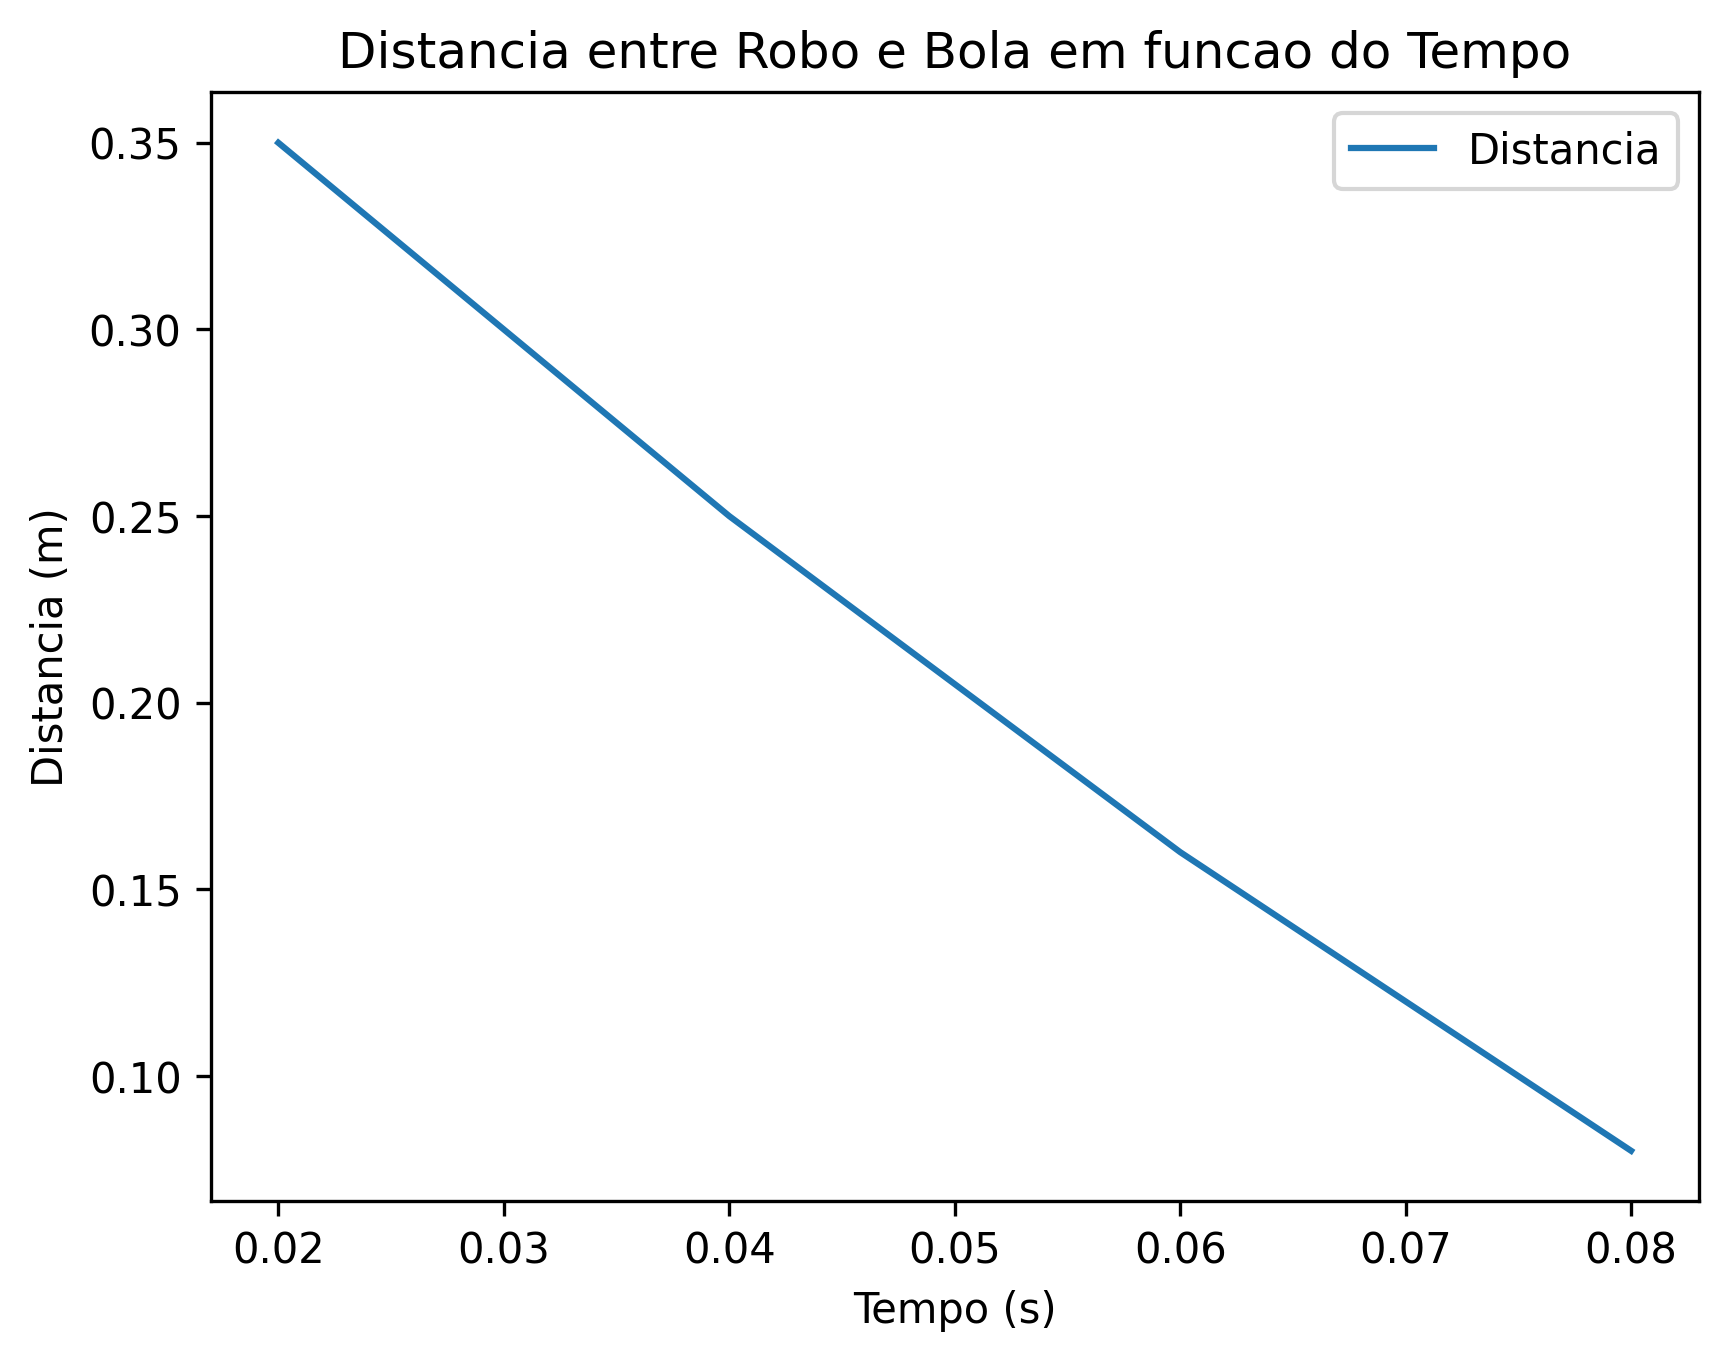
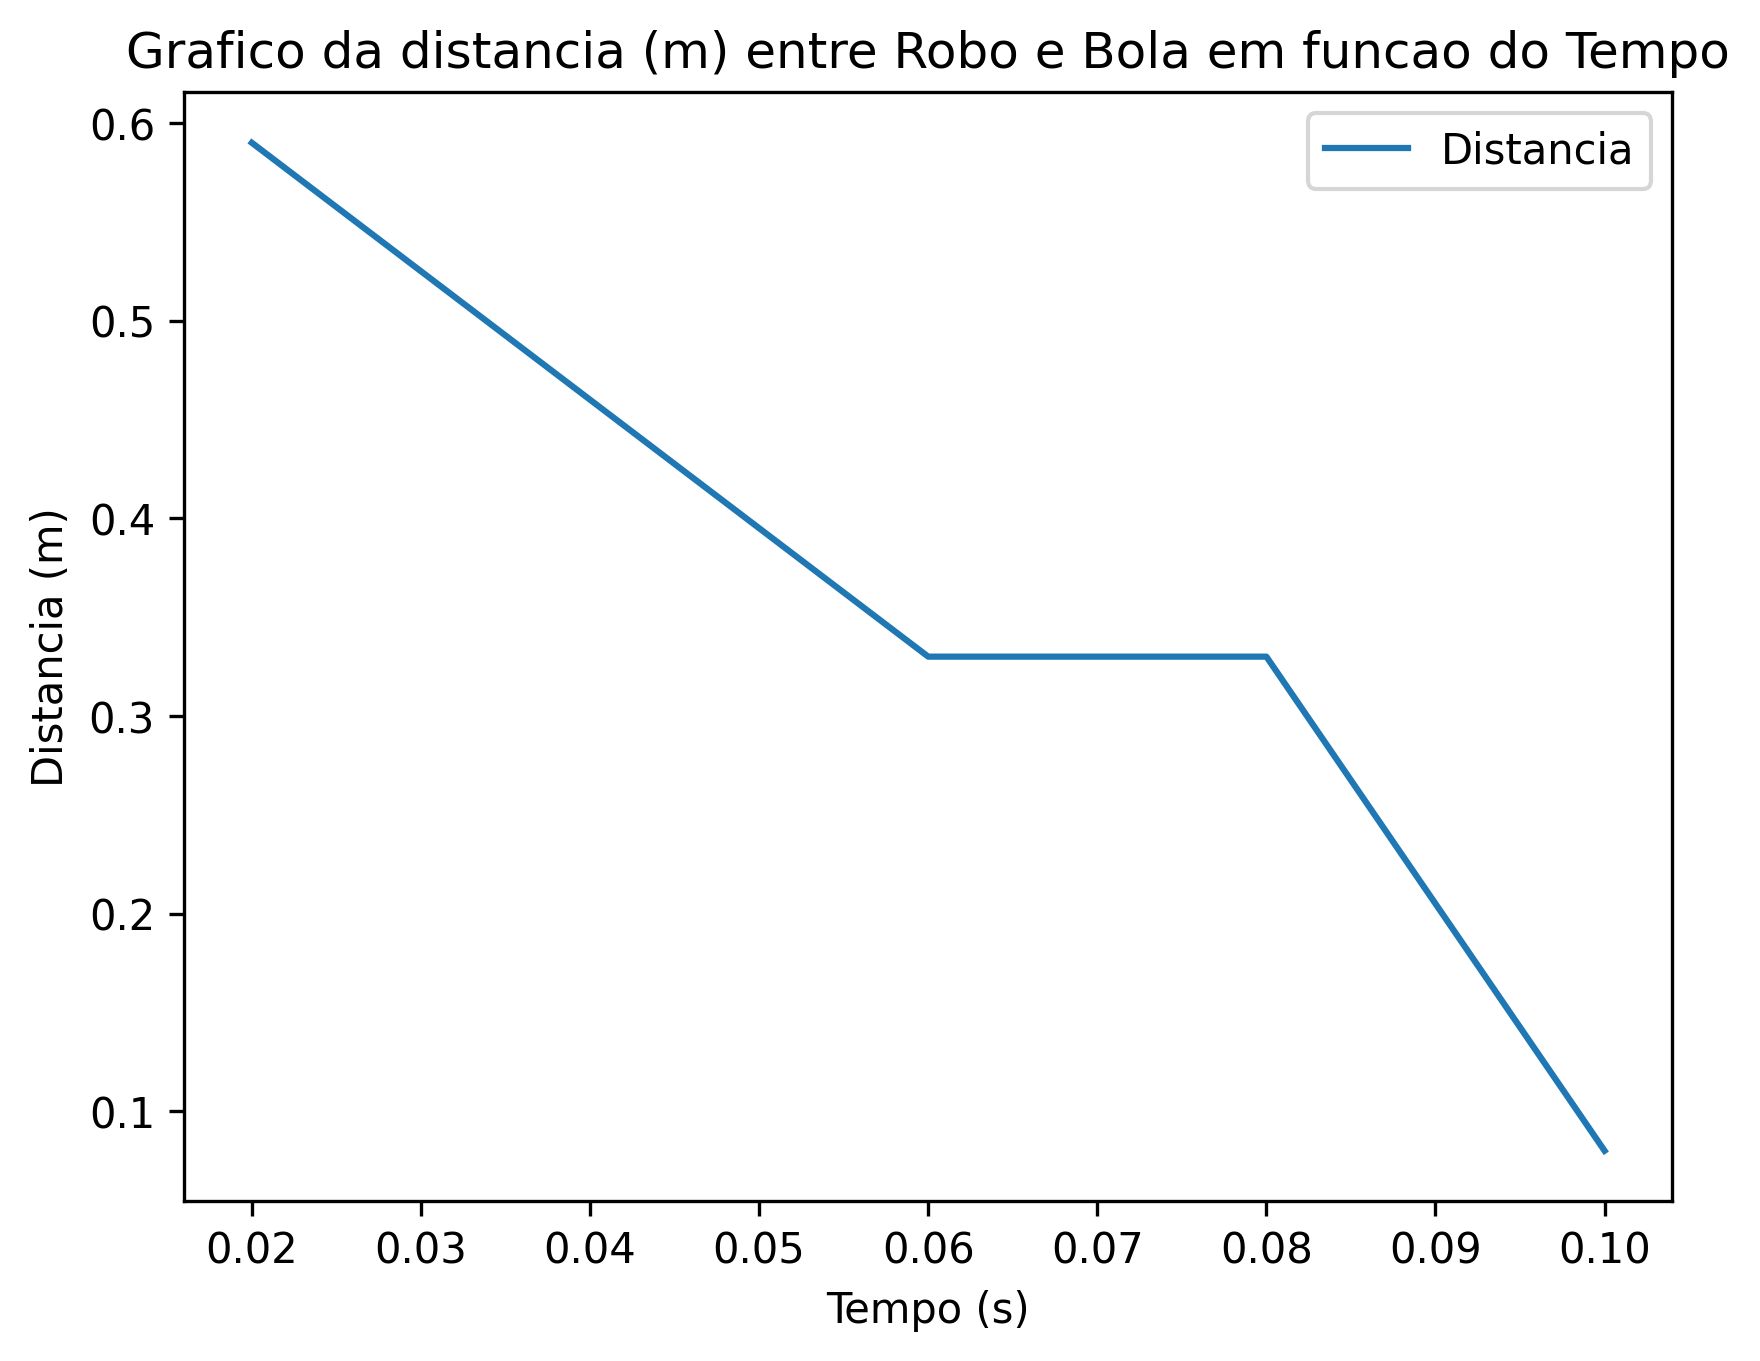
Nome dos graficos arrumados
Nome dos graficos arrumados

diff --git a/Dados_Grafico/Gerar_Grafico/chamar_grafico.py b/Dados_Grafico/Gerar_Grafico/chamar_grafico.py
@@ -22,13 +22,14 @@ def aceleracao_robo(path=os.getcwd()):
     plt.plot(tempo,cx)
     plt.plot(tempo,cy)
 
-    plt.title("Aceleracao X e Y do Robo em funcao do Tempo")
+    plt.title("Grafico da aceleracao X (m/s²) e Y (m/s²) do Robo em funcao do Tempo (s)")
     plt.xlabel("Tempo (s)")
     plt.ylabel("Aceleração (m/s²)")
-    plt.legend(["Aceleração X","Aceleração Y"])
+    plt.legend(["Aceleração X do robo","Aceleração Y do robo"])
 
     plt.savefig(path + "/Dados_Grafico/Gerar_Grafico/Graficos/acel_robo.png", dpi=300, bbox_inches='tight')
     plt.show()
+
 def aceleracao_bola(path=os.getcwd()):
     # separar em listas as linhas do excel
     dataset = open(path + "/Dados_Grafico/Gerar_Grafico/acel_bola.txt", "r")
@@ -50,10 +51,10 @@ def aceleracao_bola(path=os.getcwd()):
     plt.plot(tempo, cx)
     plt.plot(tempo, cy)
 
-    plt.title("Aceleracao X e Y do Bola em funcao do Tempo")
+    plt.title("Grafico de aceleracao X (m/s²) e Y (m/s²) da Bola em funcao do Tempo (s)")
     plt.xlabel("Tempo (s)")
     plt.ylabel("Aceleração (m/s²)")
-    plt.legend(["Aceleração X", "Aceleração Y"])
+    plt.legend(["Aceleração X da bola", "Aceleração Y da bola"])
 
     plt.savefig(path + "/Dados_Grafico/Gerar_Grafico/Graficos/acel_bola.png", dpi=300, bbox_inches='tight')
     plt.show()
@@ -75,7 +76,7 @@ def distancia_relativa(path=os.getcwd()):
 
     plt.plot(tempo, Distancia)
 
-    plt.title("Distancia entre Robo e Bola em funcao do Tempo")
+    plt.title("Grafico da distancia (m) entre Robo e Bola em funcao do Tempo (s)")
     plt.xlabel("Tempo (s)")
     plt.ylabel("Distancia (m)")
     plt.legend(["Distancia"])
@@ -103,10 +104,10 @@ def velocidade_bola(path = os.getcwd()):
     plt.plot(tempo, Robo_Vx)
     plt.plot(tempo, Robo_Vy)
 
-    plt.title("Velocidade X e Y da Bola em funcao do Tempo")
-    plt.xlabel("Tempo")
-    plt.ylabel("Velocidade X e Y")
-    plt.legend(["Velocidade X", "Velocidade Y"])
+    plt.title("Grafico da velocidade X (m/s) e Y (m/s) da Bola em funcao do Tempo (s)")
+    plt.xlabel("Tempo (s)")
+    plt.ylabel("Velocidade (m/s)")
+    plt.legend(["Velocidade X da bola", "Velocidade Y da bola"])
 
     plt.savefig(path + "/Dados_Grafico/Gerar_Grafico/Graficos/velocidade_bola.png", dpi=300, bbox_inches='tight')
     plt.show()
@@ -132,10 +133,10 @@ def velocidade_robo(path = os.getcwd()):
     plt.plot(tempo, Robo_Vx)
     plt.plot(tempo, Robo_Vy)
 
-    plt.title("Velocidade X e Y do Robo em funcao do Tempo")
-    plt.xlabel("Tempo")
-    plt.ylabel("Velocidade X e Y")
-    plt.legend(["Velocidade X", "Velocidade Y"])
+    plt.title("Grafico da velocidade X (m/s) e Y (m/s) do Robo em funcao do Tempo (s)")
+    plt.xlabel("Tempo (s)")
+    plt.ylabel("Velocidade (m/s)")
+    plt.legend(["Velocidade X do robo", "Velocidade Y do robo"])
 
     plt.savefig(path + "/Dados_Grafico/Gerar_Grafico/Graficos/velocidade_robo.png", dpi=300, bbox_inches='tight')
     plt.show()
@@ -160,10 +161,10 @@ def pos_x_robo_bola(path=os.getcwd()):
     plt.plot(tempo, Bola_coordX)
     plt.plot(tempo, Robo_coordX)
 
-    plt.title("Posicao X em funcao do Tempo")
+    plt.title("Grafico da posicao X (m) do robo e da bola em funcao do Tempo (s)")
     plt.xlabel("Tempo (s)")
     plt.ylabel("Coordenada X (m)")
-    plt.legend(["Bola", "Robo"])
+    plt.legend(["Posicao X da bola", "Posicao X do robo"])
 
     plt.savefig(path + "/Dados_Grafico/Gerar_Grafico/Graficos/x_t_robo_bola.png", dpi=300, bbox_inches='tight')
     plt.show()
@@ -193,10 +194,10 @@ def pos_xy_robo_bola(path=os.getcwd()):
     plt.plot(Robo_coordX, Robo_coordY)
     # plt.plot(tempo,coordX)
 
-    plt.title("Posicao do Robo e da Bola (posicao Y em funcao de X")
-    plt.xlabel("Coordenada X")
-    plt.ylabel("Coordenada Y")
-    plt.legend(["Bola", "Robo"])
+    plt.title("Grafico da posicao X (m) do Robo e da Bola em funcao da posicao Y (m)")
+    plt.xlabel("Coordenada X (m)")
+    plt.ylabel("Coordenada Y (m)")
+    plt.legend(["Posicao da Bola", "Posicao do Robo"])
 
     plt.savefig(path + "/Dados_Grafico/Gerar_Grafico/Graficos/x_y_robo_bola.png", dpi=300, bbox_inches='tight')
     plt.show()
@@ -221,10 +222,10 @@ def pos_y_robo_bola(path = os.getcwd()):
     plt.plot(tempo, Bola_coordY)
     plt.plot(tempo, Robo_coordY)
 
-    plt.title("Posicao Y em funcao do Tempo")
+    plt.title("Grafico da posicao Y (m) do robo e da bola em funcao do Tempo (s)")
     plt.xlabel("Tempo (s)")
     plt.ylabel("Coordenada Y (m)")
-    plt.legend(["Bola", "Robo"])
+    plt.legend(["Posicao Y da Bola", "Posicao Y do Robo"])
 
     plt.savefig(path + "/Dados_Grafico/Gerar_Grafico/Graficos/y_t_robo_bola.png", dpi=300, bbox_inches='tight')
     plt.show()
@@ -249,7 +250,7 @@ def criarGraficoVelocidadeRelativa(path = os.getcwd()):
     plt.plot(tempo, velocidade_relativa)
  
 
-    plt.title("Gráfico da velocidade Relativa entre o robo e a bola em funcao do Tempo")
+    plt.title("Gráfico da velocidade relativa (m/s )entre o robo e a bola em funcao do Tempo (s)")
     plt.xlabel("Tempo (s)")
     plt.ylabel("Velocidade Relativa (m/s)")
 
